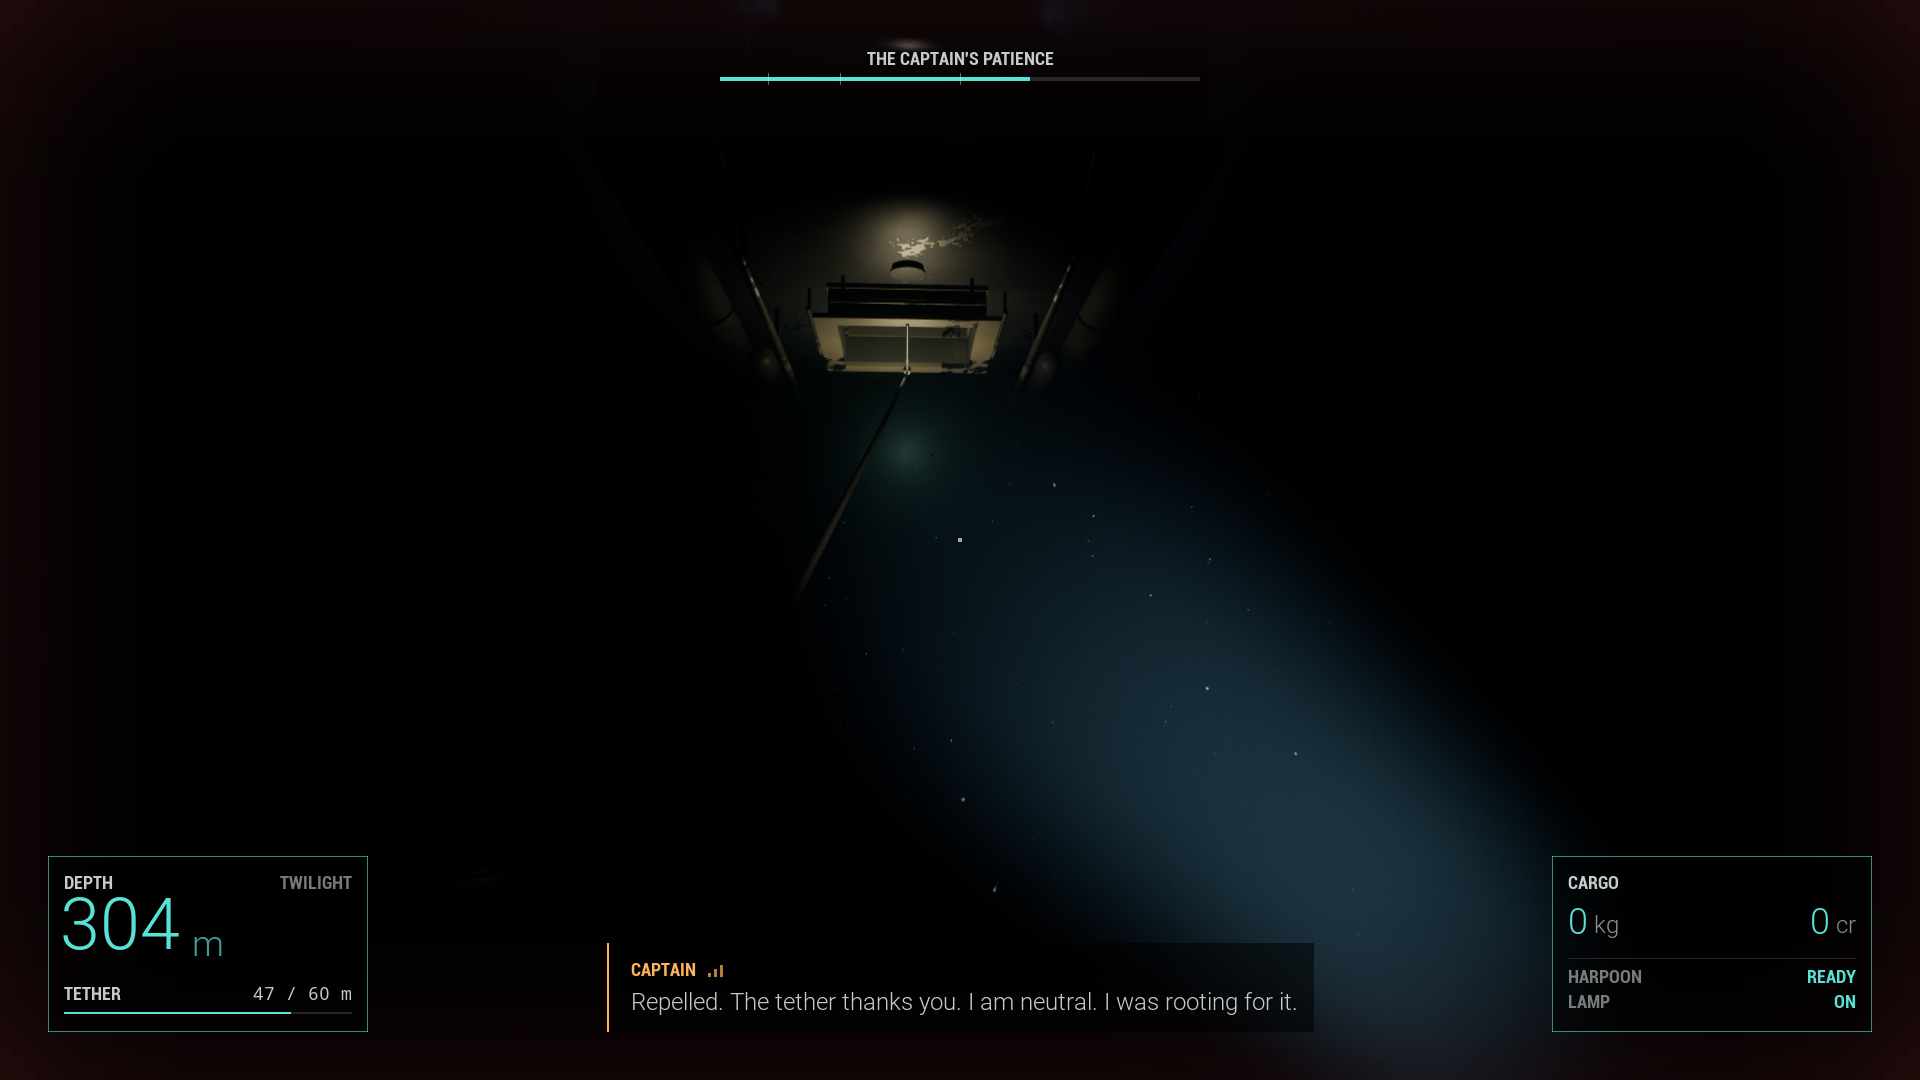
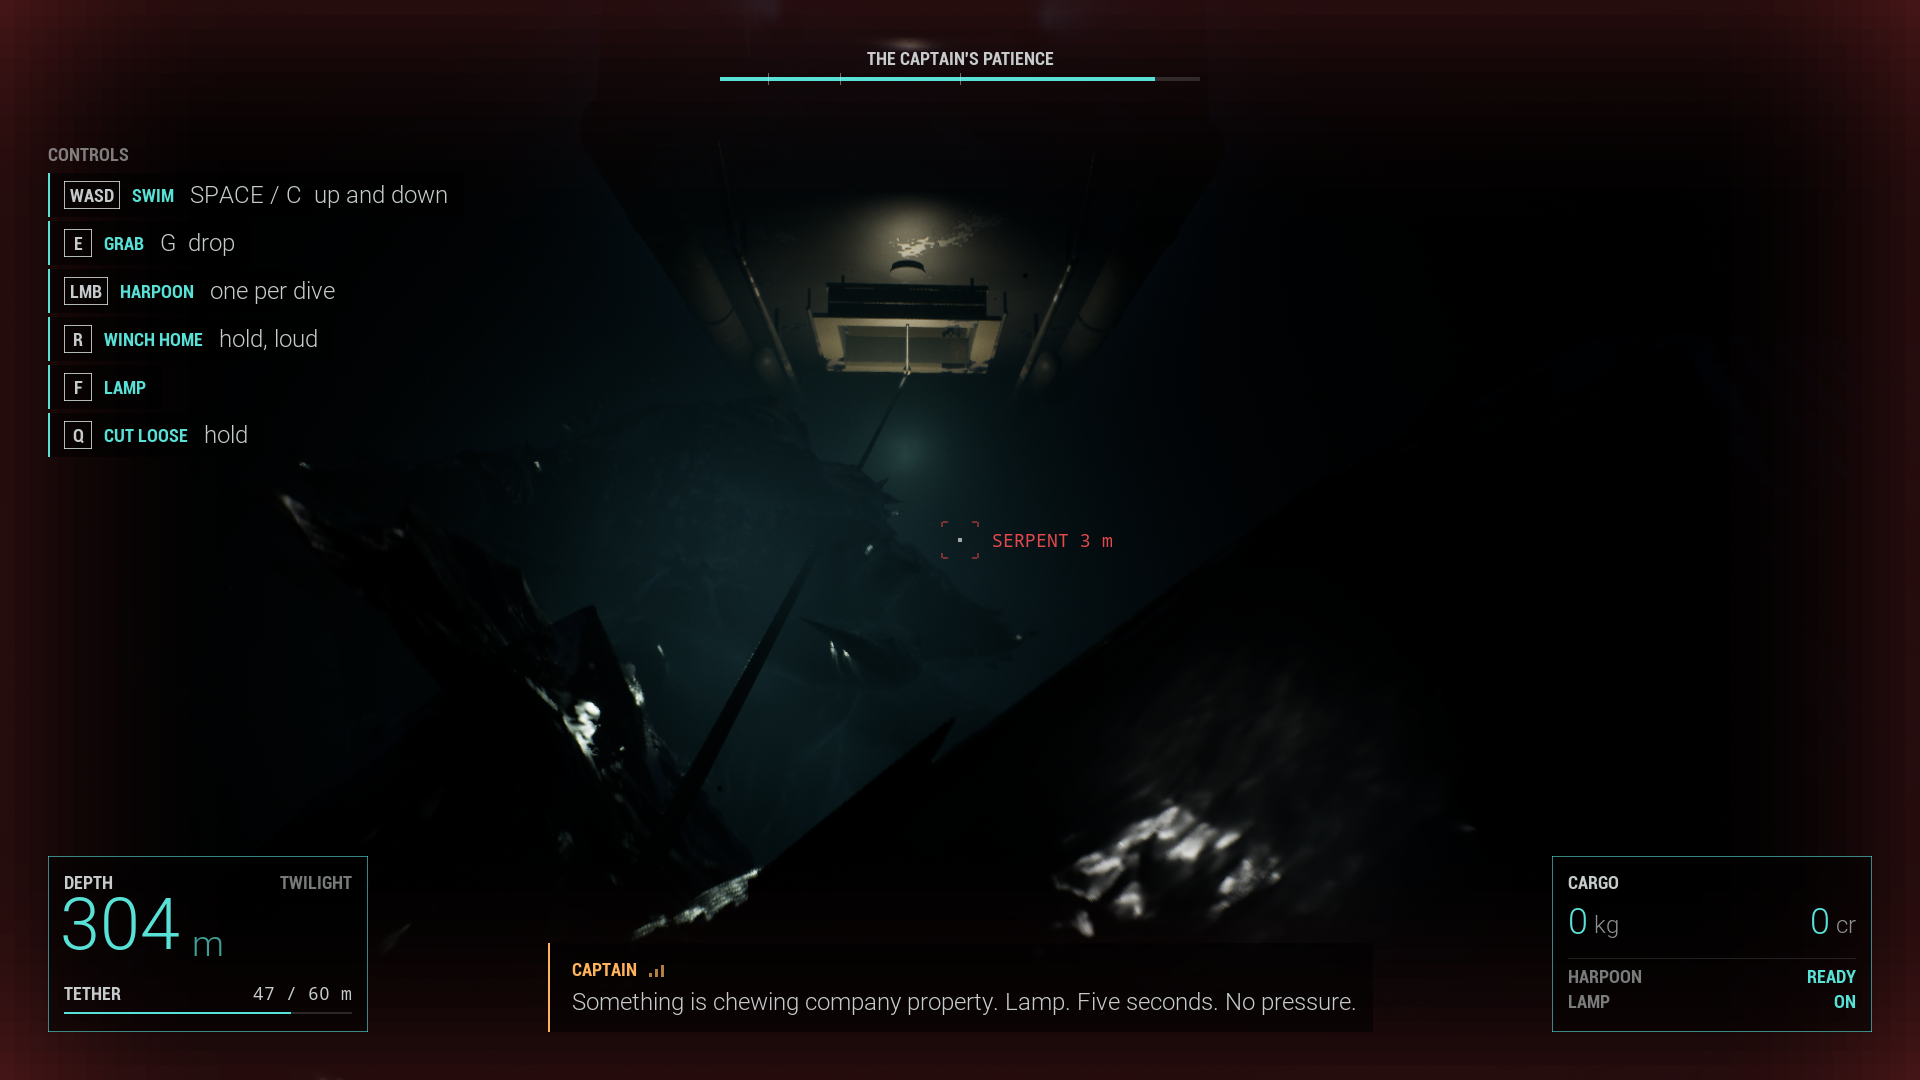
The opening, second pass: strips reach the start spot, the settlement card stops fighting the screen, the recoil shows
- The ceiling strips now run from 30 cm off the aft wall (they ended 20 cm forward of the start spot);
  6,000 instead of 5,000 keeps the light per metre. Frame time at the start: 16.22 ms (GPU 15.26).
- While a diver is settling, the console screen behind the card eases to 20% glow, so its graph no
  longer runs through the numbers; it comes back when the card closes.
- The serpent's glow flares with the recoil's flinch and dies with it: with the lamp on at 2 to 3 m the
  lamp dims itself for the body and the head had gone darker than with the lamp off.
- Frames for the first sight, the settlement, coming aboard and the recoil; dev log entries.
Tests: Deep.World 31/31, Deep.Sim.Monster 6/6, Deep.UI 8/8.

diff --git a/deep/Source/Deep/World/DeepSubmarine.cpp b/deep/Source/Deep/World/DeepSubmarine.cpp
@@ -398,12 +398,18 @@ void ADeepSubmarine::LayOut()
 			continue;
 		}
 		const double Y = Index == 0 ? StripY : -StripY;
-		Place(StripFixtures[Index], FVector(-60.0, Y, H * 0.5 - 4.0), FVector(520.0, 14.0, 8.0));
-		Strips[Index]->SetRelativeLocation(FVector(-60.0, Y, H * 0.5 - 9.0));
+		// From 30 cm off the aft wall to 2 m forward of the hatch (opening pass: they ended 20 cm forward of the start
+		// spot, so the walls round it were black). Look.StripIntensity keeps the old brightness per metre.
+		const double AftX = -L + 30.0;
+		const double ForeX = 200.0;
+		const double MidX = (AftX + ForeX) * 0.5;
+		const double Len = ForeX - AftX;
+		Place(StripFixtures[Index], FVector(MidX, Y, H * 0.5 - 4.0), FVector(Len + 20.0, 14.0, 8.0));
+		Strips[Index]->SetRelativeLocation(FVector(MidX, Y, H * 0.5 - 9.0));
 		Strips[Index]->SetRelativeRotation(FRotator(-90.f, 0.f, 0.f));
 		// Pitched down, the light's height axis runs along the room.
 		Strips[Index]->SetSourceWidth(10.f);
-		Strips[Index]->SetSourceHeight(500.f);
+		Strips[Index]->SetSourceHeight(static_cast<float>(Len));
 	}
 	// The practicals face out of their screens.
 	ConsoleLight->SetRelativeLocation(FVector(C.X, C.Y - 12.0, DeckTop + 100.0));
@@ -799,6 +805,19 @@ void ADeepSubmarine::Tick(float DeltaSeconds)
 	if (Strips.IsValidIndex(2))
 	{
 		Strips[2]->SetVisibility(GNoseStrip != 0 && !UDeepTuningSettings::Get().Arena.bGreyBox);
+	}
+	// While a diver reads the settlement card, the console screen behind it dims, so its graph does not run through
+	// the numbers (the card sits over the screen from where a player stands to bank).
+	if (UMaterialInstanceDynamic* Screen = ConsoleScreen ? Cast<UMaterialInstanceDynamic>(ConsoleScreen->GetMaterial(0)) : nullptr)
+	{
+		bool bSettling = false;
+		for (TActorIterator<APawn> It(GetWorld()); It && !bSettling; ++It)
+		{
+			const UDeepRunComponent* Run = It->FindComponentByClass<UDeepRunComponent>();
+			bSettling = Run && Run->GetState() == EDeepRunState::Settling;
+		}
+		ConsoleGlowScale = FMath::FInterpTo(ConsoleGlowScale, bSettling ? Look.ScreenGlowUnderCard : 1.f, DeltaSeconds, 6.f);
+		Screen->SetScalarParameterValue(TEXT("Glow"), Look.ScreenGlow * ConsoleGlowScale);
 	}
 	TickHelmLook(DeltaSeconds);
 }

diff --git a/deep/Source/Deep/Sim/DeepTuningTypes.h b/deep/Source/Deep/Sim/DeepTuningTypes.h
@@ -1019,7 +1019,7 @@ struct FDeepLookTuning
 	FLinearColor StripColor = FLinearColor(FColor(0xBF, 0xE3, 0xEA));
 
 	UPROPERTY(EditAnywhere, BlueprintReadWrite, Category = "Look|Room")
-	float StripIntensity = 5000.f;
+	float StripIntensity = 6000.f; // 5000 over 5 m until the strips were lengthened to 6 m (opening pass): the same per metre
 
 	/** A third strip across the nose, this far aft of the window wall, so the helm end and the window frame read (opening pass, Nov 15). */
 	UPROPERTY(EditAnywhere, BlueprintReadWrite, Category = "Look|Room")
@@ -1031,6 +1031,10 @@ struct FDeepLookTuning
 	/** The strips' barn doors (88 = none). 45 left the walls black; wider lets the strips wash down the walls. */
 	UPROPERTY(EditAnywhere, BlueprintReadWrite, Category = "Look|Room")
 	float StripBarnDoorDeg = 75.f;
+
+	/** The console screen's glow, as a fraction, while the settlement card is open over it (its graph ran through the numbers). */
+	UPROPERTY(EditAnywhere, BlueprintReadWrite, Category = "Look|Room")
+	float ScreenGlowUnderCard = 0.2f;
 
 	/** Amber practicals at the console and the helm (#FFB45A): the only warm room light, from the screens. */
 	UPROPERTY(EditAnywhere, BlueprintReadWrite, Category = "Look|Room")

diff --git a/deep/Source/Deep/Monster/DeepSerpent.cpp b/deep/Source/Deep/Monster/DeepSerpent.cpp
@@ -854,6 +854,12 @@ void ADeepSerpent::UpdateGlow(float Dt)
 		{
 			Target = FMath::Clamp(Tuning.GlowPassFraction, 0.f, 1.f);
 		}
+		else if (State == EDeepMonsterState::Recoil)
+		{
+			// The flinch flares its spots (UpdateMarks) and its light with them, then both die: the lamp's hit reads
+			// even though the lamp dims itself for a body this close.
+			Target = FMath::Clamp(Flinch01, 0.f, 1.f);
+		}
 	}
 	const float Rate = Target > Glow01 ? Tuning.GlowAttack : Tuning.GlowRelease;
 	Glow01 = FMath::FInterpTo(Glow01, Target, Dt, Rate);

diff --git a/deep/Source/Deep/World/DeepSubmarine.h b/deep/Source/Deep/World/DeepSubmarine.h
@@ -109,6 +109,8 @@ protected:
 	float OutsideFog = 0.f;
 	float DriveSpeedMps = 0.f;
 	float LastDepthM = -1.f;
+	/** The console screen's glow fraction (eased): dims under the settlement card. */
+	float ConsoleGlowScale = 1.f;
 	bool bHelmManned = false;
 	bool bWasParked = true;
 	float SettleAge = 100.f;

diff --git a/deep/Source/Deep/Monster/README.md b/deep/Source/Deep/Monster/README.md
@@ -5,7 +5,7 @@
 **Staged bite and recoil.** Stalk now aims at a point `BiteFromDiverM` (4 m) up the line from the diver; inside `StalkDirectWithinM` it swings out `BiteSideLeadM` (3 m) to one side of the line and strikes across it, so a diver who turns sees it in profile on the line. Recoil first turns the head away from the lamp nearly in place for `RecoilTurnS` (0.9 s, in frame), then flees as before. Shot: `Deep.Monster.StageBite [side_m]` turns the view to the bite point and sends the head in from the right.
 **The look** (`ADeepSerpent`, Style Guide section 6; numbers in `Body`): one procedural tube (`UProceduralMeshComponent`, 48 rings x 12, rebuilt each frame along the head's recorded path with parallel-transport frames, a dorsal ridge, a travelling weave that banks into curves), a code-built wedge head with a hinged jaw on `HeadSocket`, skin `M_SerpentSkin` (clear coat over near-black, round overlapping scales in the normal, rough grooves) and markings layer `M_SerpentMarks` (sparse photophores low on the flanks, no outline: rim gain 0), both built from text by `Content/Deep/Serpent/build_serpent_skin.py`, headless. Second pass: 16 m long, 1.1 to 1.4 m thick, a long flat head with teeth, small eyes. The controller sends `SetMood(state, threat)`: spots stay dark until threat peaks, then pulse faster, the head flinches on Recoil and lunges and thrashes on Bite. Eyes shine only while a diver's lamp is on them. Markings stay dark for `RevealDelayS` and until it first stalks (`Deep.Monster.Reveal` skips that). `bTubeBody = false` brings back the old spheres. Test: `Deep.World.Monster.Look`.
 
-**Its own light** (`Body` "Glow", Nov 15): a point light under the jaw in the spots' cyan-green. In a bite it pulses at the spots' rate between 45% and 100% of `GlowIntensity` (900, unitless, 4 m, scattering 3), so the moment before the lamp shows the teeth on the line; on the first pass it glows at 35%; dark in every other state and in `Pose` shots. Look only. `Deep.Monster.Glow 0` turns it off for before-and-after frames.
+**Its own light** (`Body` "Glow", Nov 15): a point light under the jaw in the spots' cyan-green. In a bite it pulses at the spots' rate between 45% and 100% of `GlowIntensity` (900, unitless, 4 m, scattering 3), so the moment before the lamp shows the teeth on the line; on the first pass it glows at 35%; on a recoil it flares with the flinch and dies with it; dark in every other state and in `Pose` shots. Look only. `Deep.Monster.Glow 0` turns it off for before-and-after frames.
 
 **The dragon head** (`Body.MeshHead`, Nov 15): when the Dragon Cave pack is installed the serpent wears `SM_DragonPose04` (a whole 250 m winged dragon, mouth open) scaled 0.075 in the head socket. Its landmarks (skull point, eyes, neck cut, all mesh-local cm) place it: the skull is the socket, so `GetHeadLocation()` (now the socket, which leads in a lunge) is the visible head; the eye line levels it; the eyeshine sits on its eyes. `M_DragonHead` clips everything outside a capsule in front of the neck cut (no wings, no legs) and grades the dragon's textures to near-black wet skin. The body wears `M_DragonBody`: a patch of the dragon's own neck skin, mirror-tiled, so the scales at the join are the same scales. The tube starts as a sleeve inside the neck and is just over it by the cut (tall and narrow there like the neck, round by 4 m), with dorsal spikes carried on down the ridge. The bite (it cannot close its jaw): the mouth landmark is held on the line, the head turns side-on to the diver and worries the line (`MeshHead.BiteShake*`), look only. The drawn body keeps `Body.BodyClearM` (2 m) from every diver's eyes; hit segments keep the true path. The lamp asks `GetDrawnSpheres()` where the drawn body is (one sphere per tube ring and three along the head) and dims for it: the serpent stays without collision. Both materials: `Content/Deep/Serpent/build_dragon_head.py`, headless. No pack = the code-built head, every test the same. `Deep.Monster.MeshHead 0|1` switches it at run time. Look-dev: `Deep.Monster.Specimens [cell_m] [clip] [lux]` (the four poses as a contact sheet), `Deep.Monster.PlainLight <lux>`, `Deep.Monster.Param <head|body> <name> <x> [y z]`. Cook: listed in `Content/Data/PackAssets.csv`.
 

diff --git a/deep-claude-brain/05 - Log/Devlog.md b/deep-claude-brain/05 - Log/Devlog.md
@@ -604,6 +604,14 @@ Times are EST. Mark a time "about" when it comes from memory and not from a time
 - Frame time, the start spot looking to the nose, 1080p, ray tracing on, 300 frames each: nose strip off 15.63 ms (GPU 14.66), on 16.25 ms (GPU 15.32). The third shadowed rect light costs about 0.6 ms of GPU.
 - Tests: `Deep.World` 31 of 31, `Deep.Sim.Monster` 6 of 6, `Deep.UI` 8 of 8.
 
+### 10:58 AM  The opening, second pass: the strips reach the start, the card stops fighting the screen, the first sight caught (polish/opening)
+- The strips ran from 3.2 m aft of the centre; the start spot is at 3.4 m. They now run from 30 cm off the aft wall to 2 m forward of the hatch, at 6,000 instead of 5,000 so the light per metre is unchanged. Facing the starboard, port or aft wall from the start spot is still near black (`devlog/media/2026-11-15-opening-03b-turn-stbd.png`, `-03c`, `-03d`): those walls are 0.75 and 1.1 m from the eye and a ceiling strip only grazes a wall that close. Not chased: a player turns past them. Frame time at the start spot with all three strips: 16.22 ms (GPU 15.26), the same as with the shorter strips.
+- The settlement card is drawn over the console screen from where a player stands to bank, and the screen's amber graph ran through the numbers (`...-06b-settlement-before.png`). While any diver is settling, the console screen's glow eases to 20% (`Look.ScreenGlowUnderCard`) and comes back when the card closes (`...-06b-settlement.png`).
+- The first sight, fired the way a player meets it (lamp on and settled, looking ahead): the head crosses the beam at about 7 m, teeth and one eye catching the lamp, then the body drags through and it is gone (`...-09b-firstsight-pass.png`, `-09c`). It reads as "something with teeth", for about two seconds, and only if you are looking ahead. It is faint by design (style guide 6: partial, at the edge of the lamp); I left it.
+- Found: with the lamp turned on in a bite, the head goes darker than with the lamp off (`...-10b-bite-lampon.png`): the lamp dims itself for a body 3 m away (the ascent lane's close-range fix) and the serpent's own glow fades as it recoils. The lamp is not this lane's file. The glow now flares with the recoil's flinch and dies with it, as its spots already did, so the moment the lamp lands still shows the head. Result, 0.3 s after the lamp comes on: the head turning away, edges and eye lit, motion-blurred (`...-10b-bite-lampon.png` against `-before`); at 0.6 s the body thrashes in the beam (`...-10c-recoil.png`); at 1.2 s it is a lit shape leaving (`...-10d-recoil-leaves.png`). Readable, not yet a clean frame: the blur is the flinch's speed.
+- Coming aboard: you keep the pitch you swam up with, so the first frame aboard is the ceiling (`...-05c-aboard.png`); levelled, the room reads (`...-05d-aboard-level.png`). The fix belongs in the run component or the diver, outside this lane.
+- Capture mistakes, for the next lane: the hatch drop leaves the diver 60 cm under the hatch, so frames "at the stop" must move the diver; `Deep.Monster.FirstSight` aims by the lamp, which lags the view, so wait a second after `Deep.Look`; `Deep.Grab` from `Deep.Hover` missed twice: the grab picks by angle and range from the eye, and the hover stopped at the bed.
+
 ## Cut list
 
 The theme is Director's Cut, so we keep the list of what did not make the cut and why.
